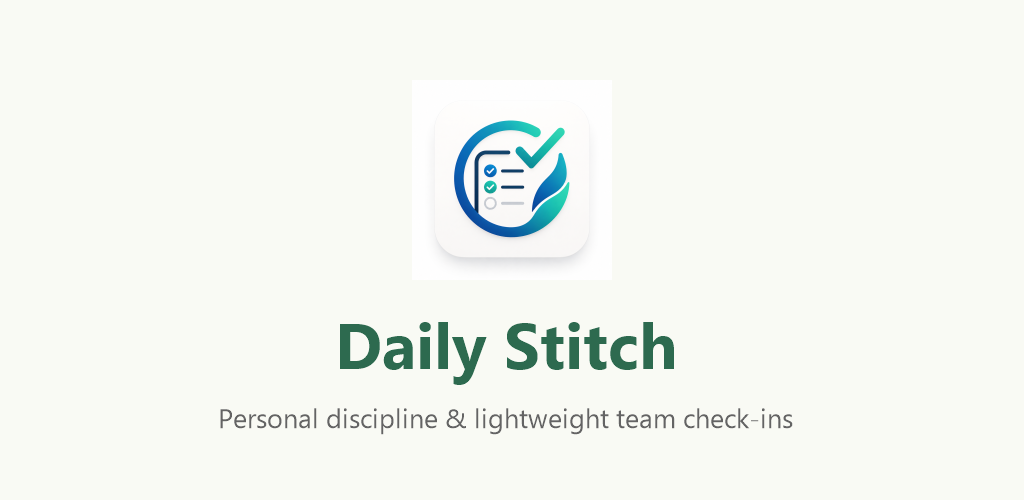
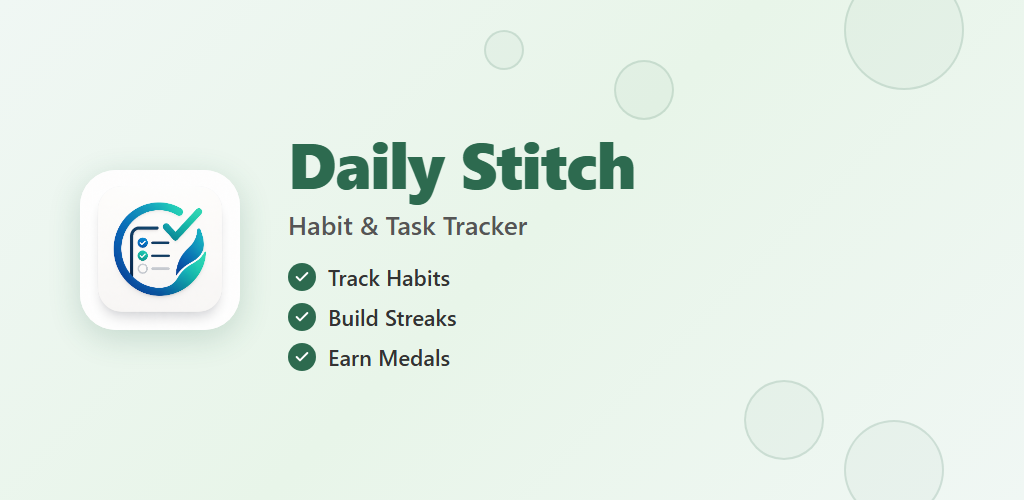
Redesign feature graphic with clean layout, no overlapping elements

diff --git a/docs/feature-graphic.html b/docs/feature-graphic.html
@@ -1,0 +1,135 @@
+<!DOCTYPE html>
+<html lang="en">
+<head>
+<meta charset="UTF-8">
+<meta name="viewport" content="width=1024">
+<style>
+  * { margin: 0; padding: 0; box-sizing: border-box; }
+  body {
+    width: 1024px;
+    height: 500px;
+    font-family: -apple-system, BlinkMacSystemFont, 'Segoe UI', Roboto, sans-serif;
+    background: linear-gradient(135deg, #f0f7f4 0%, #e8f5e9 50%, #f0f7f4 100%);
+    display: flex;
+    align-items: center;
+    padding: 0 80px;
+    overflow: hidden;
+    position: relative;
+  }
+  .left {
+    display: flex;
+    align-items: center;
+    gap: 48px;
+    z-index: 2;
+  }
+  .icon-wrapper {
+    width: 160px;
+    height: 160px;
+    border-radius: 36px;
+    overflow: hidden;
+    box-shadow: 0 8px 32px rgba(45, 106, 79, 0.2);
+    flex-shrink: 0;
+    background: #fff;
+  }
+  .icon-wrapper img {
+    width: 100%;
+    height: 100%;
+    object-fit: cover;
+  }
+  .text {
+    display: flex;
+    flex-direction: column;
+    gap: 8px;
+  }
+  .app-name {
+    font-size: 64px;
+    font-weight: 800;
+    color: #2d6a4f;
+    line-height: 1.1;
+    letter-spacing: -1px;
+  }
+  .tagline {
+    font-size: 26px;
+    font-weight: 500;
+    color: #555;
+    margin-bottom: 8px;
+  }
+  .features {
+    display: flex;
+    flex-direction: column;
+    gap: 10px;
+    margin-top: 4px;
+  }
+  .feature {
+    display: flex;
+    align-items: center;
+    gap: 12px;
+    font-size: 22px;
+    color: #333;
+    font-weight: 500;
+  }
+  .check {
+    width: 28px;
+    height: 28px;
+    border-radius: 50%;
+    background: #2d6a4f;
+    display: flex;
+    align-items: center;
+    justify-content: center;
+    flex-shrink: 0;
+  }
+  .check svg {
+    width: 16px;
+    height: 16px;
+    fill: none;
+    stroke: #fff;
+    stroke-width: 3;
+    stroke-linecap: round;
+    stroke-linejoin: round;
+  }
+  /* Decorative circles - positioned away from content */
+  .circle {
+    position: absolute;
+    border-radius: 50%;
+    border: 2px solid rgba(45, 106, 79, 0.15);
+    background: rgba(45, 106, 79, 0.03);
+  }
+  .c1 { width: 120px; height: 120px; top: -30px; right: 60px; }
+  .c2 { width: 80px; height: 80px; bottom: 40px; right: 200px; }
+  .c3 { width: 60px; height: 60px; top: 60px; right: 350px; }
+  .c4 { width: 100px; height: 100px; bottom: -20px; right: 80px; }
+  .c5 { width: 40px; height: 40px; top: 30px; right: 500px; }
+</style>
+</head>
+<body>
+  <div class="circle c1"></div>
+  <div class="circle c2"></div>
+  <div class="circle c3"></div>
+  <div class="circle c4"></div>
+  <div class="circle c5"></div>
+
+  <div class="left">
+    <div class="icon-wrapper">
+      <img src="app_icon.png" alt="Daily Stitch Icon">
+    </div>
+    <div class="text">
+      <div class="app-name">Daily Stitch</div>
+      <div class="tagline">Habit & Task Tracker</div>
+      <div class="features">
+        <div class="feature">
+          <div class="check"><svg viewBox="0 0 24 24"><polyline points="20 6 9 17 4 12"/></svg></div>
+          Track Habits
+        </div>
+        <div class="feature">
+          <div class="check"><svg viewBox="0 0 24 24"><polyline points="20 6 9 17 4 12"/></svg></div>
+          Build Streaks
+        </div>
+        <div class="feature">
+          <div class="check"><svg viewBox="0 0 24 24"><polyline points="20 6 9 17 4 12"/></svg></div>
+          Earn Medals
+        </div>
+      </div>
+    </div>
+  </div>
+</body>
+</html>
